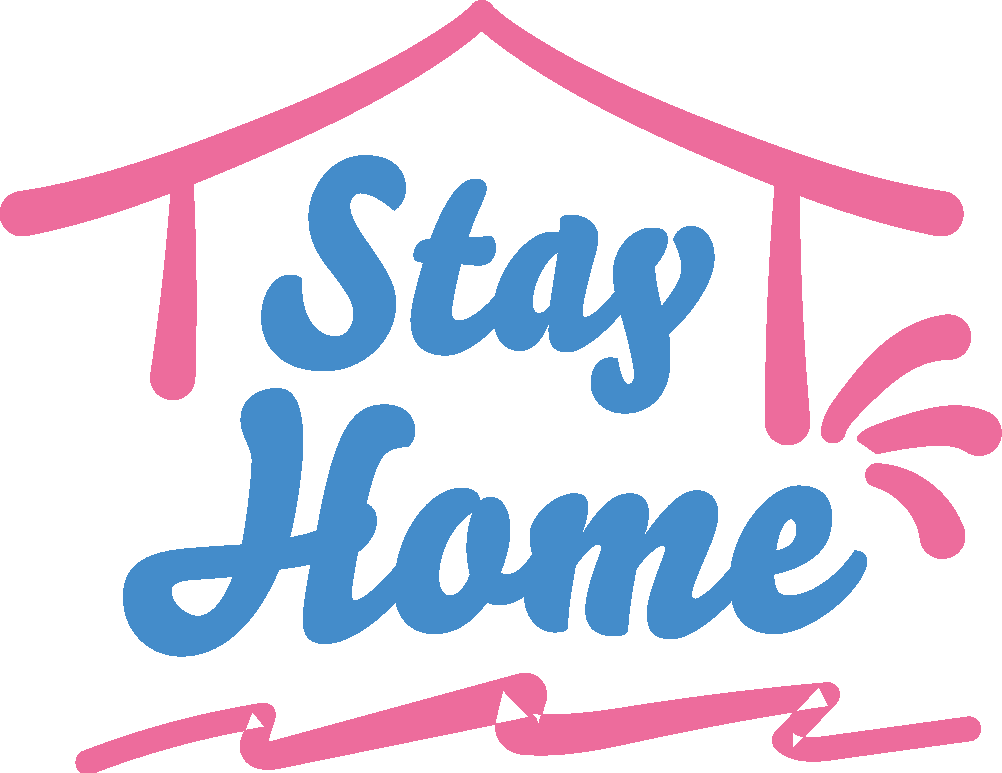
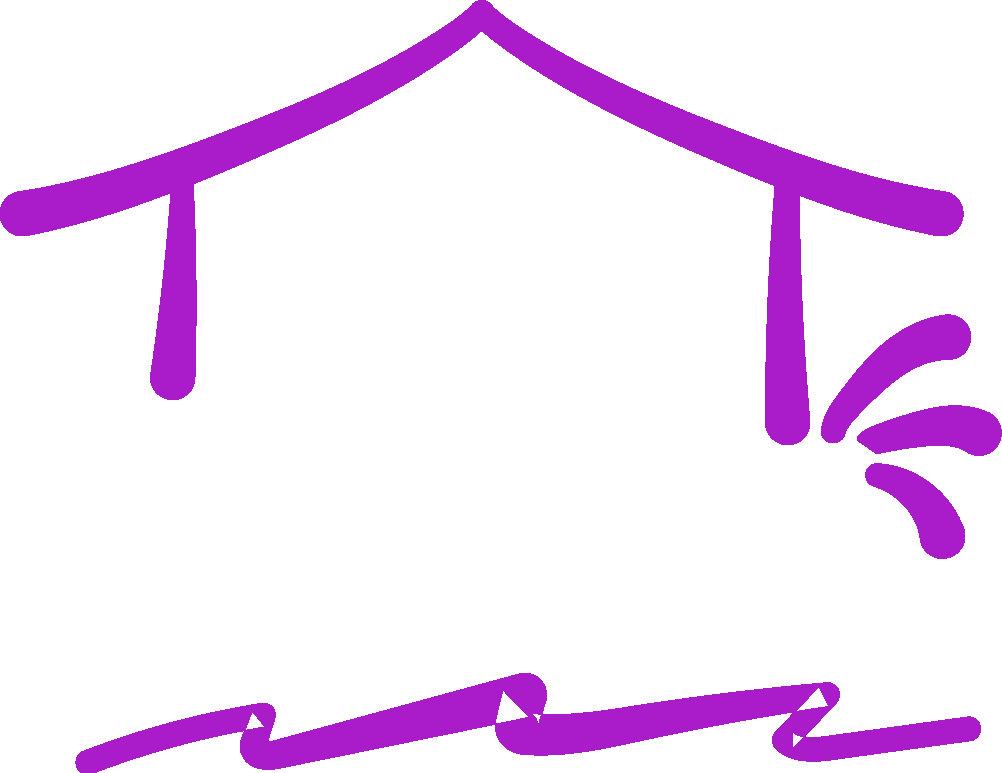
Добавляет 1 экран, команда, футер

Changed region(s): [[0.1238, 0.1863, 0.8663, 0.8693], [0.0, 0.0, 1.0, 0.7451], [0.0619, 0.8693, 0.99, 1.0]]

diff --git a/index.html b/index.html
@@ -17,13 +17,19 @@
         <!--Navigation -->
         <nav class="navigation">
           <img src="./img/logo-2.png" alt="лого" class="logo1" />
-          <img src="./img/stay-home2l.png" alt="logo2" class="logo2" />
+          <img src="./img/stay-home1.png" alt="logo2" class="logo2" />
           <ul class="main-navigation">
             <li class="mein-nav-menu">
-              <a class="menu-link" href="#">КЛЮЧЕВЫЕ ПОНЯТИЯ</a>
+              <a class="menu-link" href="#key-concepts">КЛЮЧЕВЫЕ ПОНЯТИЯ</a>
             </li>
             <li class="mein-nav-menu">
               <a class="menu-link" href="#">ТЕСТ</a>
+            </li>
+            <li class="mein-nav-menu">
+              <a class="menu-link" href="#">ОБ АВТОРЕ</a>
+            </li>
+            <li class="mein-nav-menu">
+              <a class="menu-link" href="#">ПОЖЕЛАНИЯ</a>
             </li>
             <li class="mein-nav-menu">
               <a
@@ -47,36 +53,56 @@
               <h2>Soft Skills 1</h2>
             </div>
             <!--button-->
-            <form class="button12" action="">
+            <form class="button12" action="#key-concepts">
               <button class="button1"><b>УЗНАТЬ ПОДРОБНЕЕ</b></button>
               <button class="button1"><b> ПРОЙТИ ТЕСТ</b></button>
             </form>
           </div>
-          <img src="./img/foto-book1.png" alt="book" class="foto-book1" />
+          <img src="./img/foto-book0.png" alt="book" class="foto-book1" />
         </div>
       </div>
     </header>
-    <!--key-concepts (второй-экран)-->
-    <div class="container" class="key-concepts">
-      <div class="key-concepts-h2">
-        <h2>КЛЮЧЕВЫЕ ПОНЯТИЯ</h2>
-      </div>
-      <div class="key-concepts-main">
-        <img src="./img/fixed1.png" alt="fixed" class="fixed growth-fixed" />
-        <img src="./img/growth.png" alt="growth" class="growth growth-fixed" />
-        <div class="key-concepts-text">
-          <p>
-            В основе книги лежит очень хорошая и простая мысль: люди делятся на
-            два типа по своим установкам. Одни нацелены на рост, другие — на
-            данность. Первые каждую удачу или неудачу воспринимают как ценный
-            опыт, вторые — как подтверждение или опровержение своих врожденных
-            талантов. Понятно, что у первых больше ресурсов и гибкости, у вторых
-            больше напористости, но ровно до тех пор пока они не сталкиваются с
-            трудностями, которые они не могут преодолеть лишь за счёт своей
-            «гениальности». Хорошая новость: установку можно менять.
-          </p>
+    <!--team-->
+    <div class="container team">
+      <div class="team-p">
+        <div class="from-the-team">
+          <h2>Пожелание!</h2>
         </div>
+        <p>
+          Мы команда FEC23 online. И мы все очень разные, но у нас есть одна
+          похожая цель, стать классными Full-stack разработчиками. Прочитав
+          книгу "Гибкое сознание" Кэрол Дуэк, точно поняли, что каждый может
+          стать успешным приложив усилия. Учитесь, развивайтесь и помните, что
+          никакие тесты и эксперты не могут определить насколько умными или
+          талантливыми вы будете.
+        </p>
+      </div>
+      <!--<div class="team-p">
+        <p>
+          Прочитав книгу "Гибкое сознание" Кэрол Дуэк, точно поняли, что каждый
+          может стать успешным приложив усилия. Учитесь, развивайтесь и помните,
+          что никакие тесты и эксперты не могут определить насколько умными или
+          талантливыми вы будете.
+        </p>
+      </div>-->
+      <img src="./img/team.png" alt="team" class="team-img" />
+      <div class="team-p">
+        <p>
+          <b> "Не имеет значения, откуды ты пришел - важно, куда ты идёшь"</b>
+
+          Элла Фицджеральд
+        </p>
       </div>
     </div>
+    <!--footer-->
+    <footer class="footer">
+      <div class="container">
+        <img src="./img/logo-2.png" alt="logo" class="logo-footer" />
+        <img src="./img/logo.png" alt="logo" class="logo-footer-goit" />
+        <div class="copyright">
+          <p>&copy; 2020 FEC23 online</p>
+        </div>
+      </div>
+    </footer>
   </body>
 </html>

diff --git a/css/style.css b/css/style.css
@@ -7,8 +7,9 @@
 header {
   display: block;
   height: 800px;
-  background-color: #3f0e40;
-  margin-bottom: 70px;
+  /*background-color: #3f0e40;*/
+  background-color: #00a27e;
+  /*margin-bottom: 70px;*/
 }
 
 .container {
@@ -30,7 +31,7 @@ header {
   font-size: 15px;
 }
 .mein-nav-menu {
-  margin-left: 35px;
+  margin-left: 20px;
   list-style: none;
 }
 
@@ -64,11 +65,14 @@ h1 {
 .gibkoe-s {
   font-size: 25px;
   padding-left: 150px;
-  color: #ab47bc;
+  /*color: #ab47bc;*/
+  /* color: #01785e;*/
+  color: #012a6a;
 }
 
 .soft-skills-1 {
   color: #ffff00;
+
   font-size: 15px;
   margin-bottom: 140px;
 }
@@ -92,38 +96,56 @@ h1 {
   box-shadow: 17px 19px 38px -18px rgba(0, 0, 0, 0.38);
 }
 
-.key-concepts {
-  background-color: #eceff1;
-  height: 800px;
+/*team*/
+.from-the-team {
+  font-size: 21px;
+  margin-bottom: 30px;
 }
 
-.key-concepts-h2 {
-  text-align: center;
-  color: #263238;
-}
-
-.growth {
-  float: right;
-}
-
-.fixed {
-  float: left;
-}
-
-.key-concepts-main {
+.team-img {
+  width: 450px;
+  height: 350px;
+  margin-left: auto;
+  margin-right: auto;
   display: block;
+}
+
+.team-p {
+  font-size: 18px;
+  color: #000;
   text-align: center;
   margin-left: auto;
   margin-right: auto;
-  padding-top: 30px;
+  line-height: 27px;
 }
 
-.key-concepts-text {
-  width: 500px;
-  box-sizing: content-box;
-  margin-left: auto;
-  margin-right: auto;
-  padding-top: 20px;
-  color: #263238;
-  font-size: 20px;
+.team {
+  padding-bottom: 60px;
+  padding-top: 60px;
+}
+
+/*footer*/
+.footer {
+  height: 120px;
+  background: #263238; /* Цвет фона */
+  color: #fff; /* Цвет текста */
+  width: 100%; /* Ширина слоя */
+  font-size: 15px;
+}
+
+.logo-footer {
+  float: left;
+  padding-top: 40px;
+}
+
+.copyright {
+  padding-top: 50px;
+  margin-left: 450px;
+}
+
+.logo-footer-goit {
+  float: right;
+  height: 40px;
+  width: 150px;
+  padding-top: 40px;
 }
